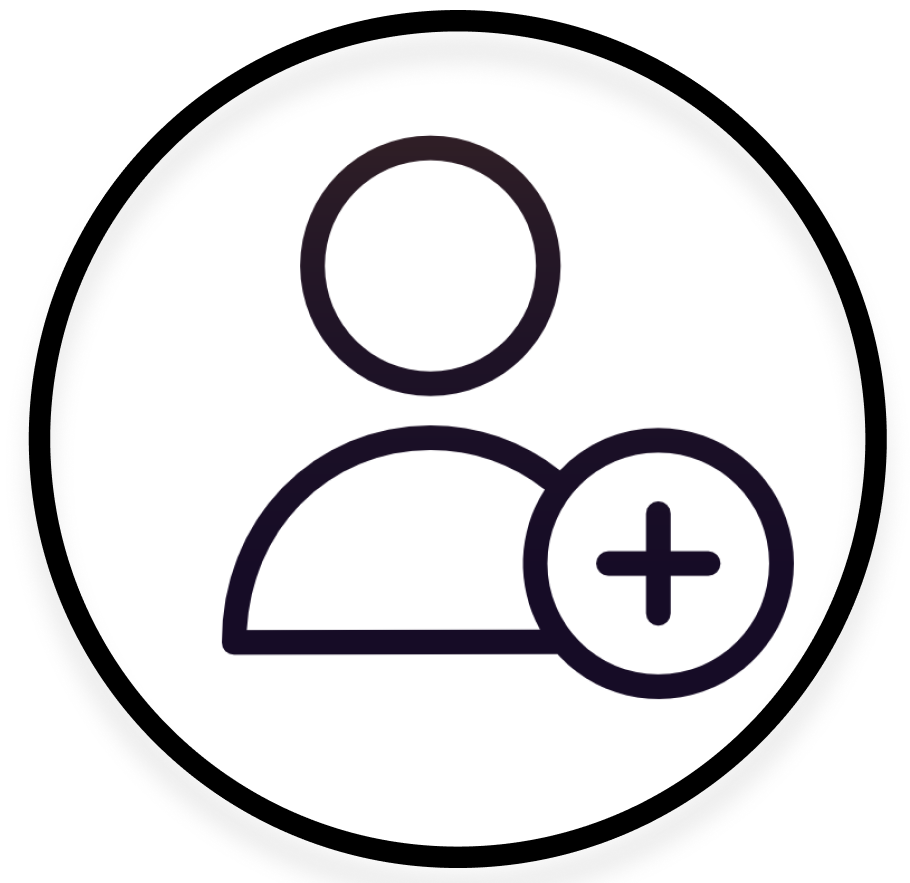
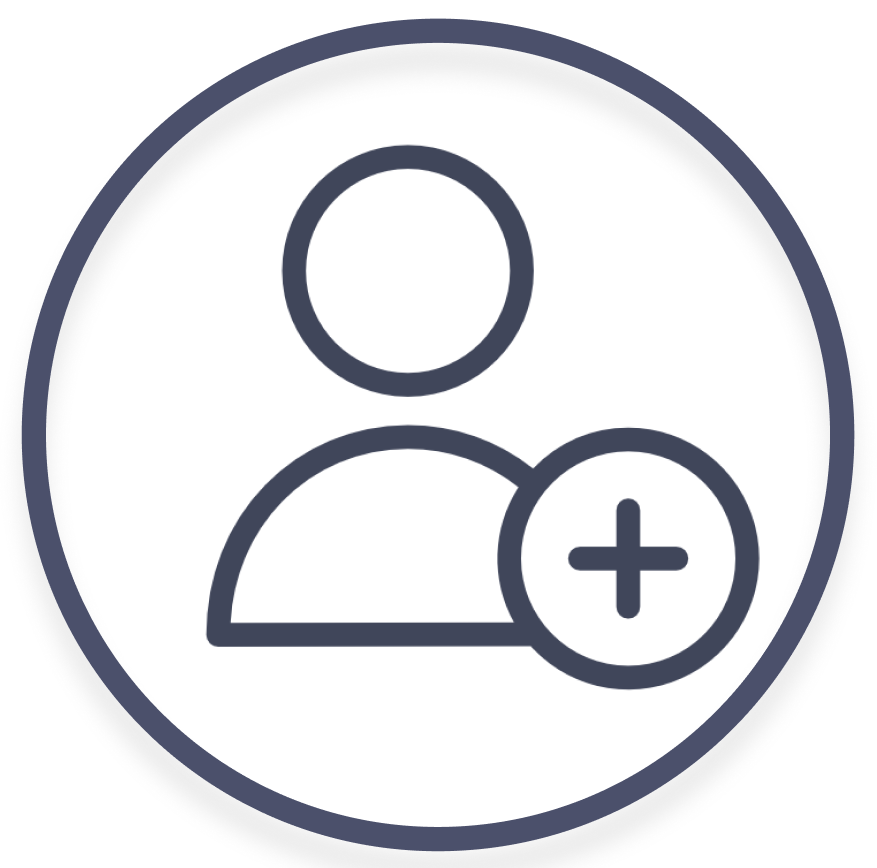
gsm Calender code

Changed region(s): [[0.0, 0.0, 0.9852, 0.9954], [0.6465, 0.5599, 0.8005, 0.7154]]

diff --git a/calender_mainpage.html b/calender_mainpage.html
@@ -8,23 +8,31 @@
         <style>
             @import url('https://fonts.googleapis.com/css2?family=Varela+Round&display=swap');
             @import url('https://fonts.googleapis.com/css2?family=Varela+Round&display=swap');
+            @import url('https://fonts.googleapis.com/css2?family=Noto+Serif+KR:wght@700&display=swap');
             </style>
     </head>
     <body>
         <header>
             <div class="signup">
                 <ul>
-                    <li>로그인</li>
-                    <li>회원가입</li>
+                    <li class="text"><a href="./calender_login.html">login</a></li>
+                    <li class="text"><a href="./calender_signup.html">signup</a></li>
                 </ul>
             </div>
             <div id="menu">
                 <ul>
-                    <li class="logo"><img src="./calender_logo.png" alt="로고"></li>
+                    <li class="logo"><a href="./calender_mainpage.html"><img src="./calender_logo.png" alt="로고"></a></li>
                     <li class="textmenu"><a href="http://gsm.gen.hs.kr/main/main.php">GSM page</a> </li>
                     <li class="textmenu"><a href="./calender.html">Calender</a></li>
-                    <li><img src="./user.png" alt="비로그인사용자"></li>
-                    <li class="textmenu">검색창</li>
+                    <li class="user"><img src="./user.png" alt="비로그인사용자"></li>
+                    <li class="textmenu">
+                        <form action="search">
+                            <button class="button-img" type="submit" name="click" value=""> <!-- 버튼을 클릭시 폼 데이터 제출 -->
+                                <i class="fa-search"></i>
+                            </button>
+                            <input class="keyword" type="text" name="search" maxlength="255" value="" autocomplete="off">
+                        </form>
+                    </li>
                 </ul>
             </div>
         </header>

diff --git a/calender.html b/calender.html
@@ -32,11 +32,11 @@
                     <li class="sat">sat</li>
                 </ul>
                 <ul class="day">
-                    <li class="date1 sun">27</li>
-                    <li class="date1">28</li>
-                    <li class="date1">29</li> 
-                    <li class="date1">30</li>
-                    <li class="date1">31</li>
+                    <li class="date1 sun other-month">27</li>
+                    <li class="date1 other-month">28</li>
+                    <li class="date1 other-month">29</li> 
+                    <li class="date1 other-month">30</li>
+                    <li class="date1 other-month">31</li>
                     <li class="date1">1</li>
                     <li class="date1 sat">2</li>
                 </ul>
@@ -78,12 +78,12 @@
                 </ul>
                 <ul class="day">
                     <li class="date1 sun">31</li>
-                    <li class="date1">1</li>
-                    <li class="date1">2</li>
-                    <li class="date1">3</li>
-                    <li class="date1">4</li>
-                    <li class="date1">5</li>
-                    <li class="date1 sat">6</li>
+                    <li class="date1 other-month">1</li>
+                    <li class="date1 other-month">2</li>
+                    <li class="date1 other-month">3</li>
+                    <li class="date1 other-month">4</li>
+                    <li class="date1 other-month">5</li>
+                    <li class="date1 sat other-month">6</li>
                 </ul>
             </div> <!-- calender-date -->
         </div> <!-- all-calender -->

diff --git a/calender_mainpage.css b/calender_mainpage.css
@@ -2,7 +2,7 @@
     list-style: none;
     display: flex;
     justify-content: space-between;
-    width: 7%;
+    width: 8%;
     /* 부모의 값을 기준으로 이동 (fixed는 고정) */
     position: absolute; 
     right: 25px;
@@ -12,11 +12,27 @@
 .singup ul li {
     margin-left: 5px;
     padding-left: 5px;
+
+}
+.text {
     font-family: 'Varela Round', sans-serif;
+    font-size: 20px;
+    font-weight: bold;
 }
 
-#menu img{
+.text a:hover{
+    text-decoration: none;
+    color: #7e85a5;
+}
+
+
+.logo img{
     width: 135px;
+    height: 125px;
+}
+
+.user img {
+    width: 125px;
     height: 125px;
 }
 
@@ -24,22 +40,23 @@
     list-style: none;
     display: flex;
     justify-content: space-between;
-    width: 64%;
+    width: 68%;
 }
 #menu ul li{
     margin-top: 18px;
 }
 #menu .textmenu {
-    margin-top: 75px;
+    margin-top: 95px;
     font-family: 'Varela Round', sans-serif;
     font-size: 35px;
+    font-weight: bold;
 }
 
 a{
     text-decoration: none;
-    color: #000000;
+    color: #333649;
 }
 
 .textmenu a:hover{
-    color: #908D8D;
+    color: #7e85a5;
 }

diff --git a/calender.css b/calender.css
@@ -1,10 +1,10 @@
 
 header {
     text-align: center; /* 글자 가운데 정렬 */
-    background-color: #e5e5e5;
+    background-color: #d5dde9;
     width: 99.8%;
-    height: 130px;
-    border: 2px solid #000000;
+    height: 140px;
+    border: 2px solid #555A74;
 }
 
 header h1 ul {
@@ -13,7 +13,8 @@ header h1 ul {
     justify-content: space-between;
     margin: 0;
     font-family: 'Schoolbell', cursive;
-    font-size: 65px;
+    font-size: 70px;
+    color: #333649;
     text-shadow: 0px 4px 4px rgba(0, 0, 0, 0.25);
     width: 600px;
     margin-left: auto;
@@ -64,7 +65,7 @@ header h1 ul {
 }
 
 #calender-date .day .date1 {
-    border: 2px solid #000000;
+    border: 2px solid #555A74;
     width: 100%;
     height: 120px;
     margin: 0;
@@ -73,4 +74,13 @@ header h1 ul {
     padding-top: 7px;
 }
 
+.date1:hover {
+
+    background-color: #e1e8f3;
+}
+
+.other-month {
+    color: #000000;
+    background-color: #f5f5f5;
+}
 

diff --git a/calender_login.html b/calender_login.html
@@ -1,0 +1,16 @@
+<!DOCTYPE html>
+<html lang="ko">
+    <head>
+        <meta charset="UTF-8">
+        <meta name="viewport" content="width=device-width, initial-scale=1.0">
+        <title>Calender login</title>
+        <link rel="stylesheet" href="./calender_login.css">
+    </head>
+    <body>
+        <header>
+            <div class="logo">
+                <a href="./calender_mainpage.html"><img src="./calender_logo.png" alt="로고"></a>
+            </div>
+        </header>
+    </body>
+</html>

diff --git a/calender_signup.html b/calender_signup.html
@@ -1,0 +1,16 @@
+<!DOCTYPE html>
+<html lang="ko">
+    <head>
+        <meta charset="UTF-8">
+        <meta name="viewport" content="width=device-width, initial-scale=1.0">
+        <title>Calender login</title>
+        <link rel="stylesheet" href="./calender_login.css">
+    </head>
+    <body>
+        <header>
+            <div class="logo">
+                <a href="./calender_mainpage.html"><img src="./calender_logo.png" alt="로고"></a>
+            </div>
+        </header>
+    </body>
+</html>

diff --git a/search.js b/search.js
@@ -1,0 +1,7 @@
+const Searching = Search.prototype;
+function Search(){
+    this.keyword = document.querySelector('input[name = "search"]');
+    this.button = document.querySelector('.button-img');
+    this.form = doucument.querySelector('.search');
+}
+new Search();

diff --git a/calender_login.css b/calender_login.css
@@ -1,0 +1,6 @@
+.logo img{
+    margin-top: 26px;
+    margin-left: 40px;
+    width: 135px;
+    height: 125px;
+}

diff --git a/calender_signup.css b/calender_signup.css
@@ -1,0 +1,6 @@
+.logo img{
+    margin-top: 26px;
+    margin-left: 40px;
+    width: 135px;
+    height: 125px;
+}
